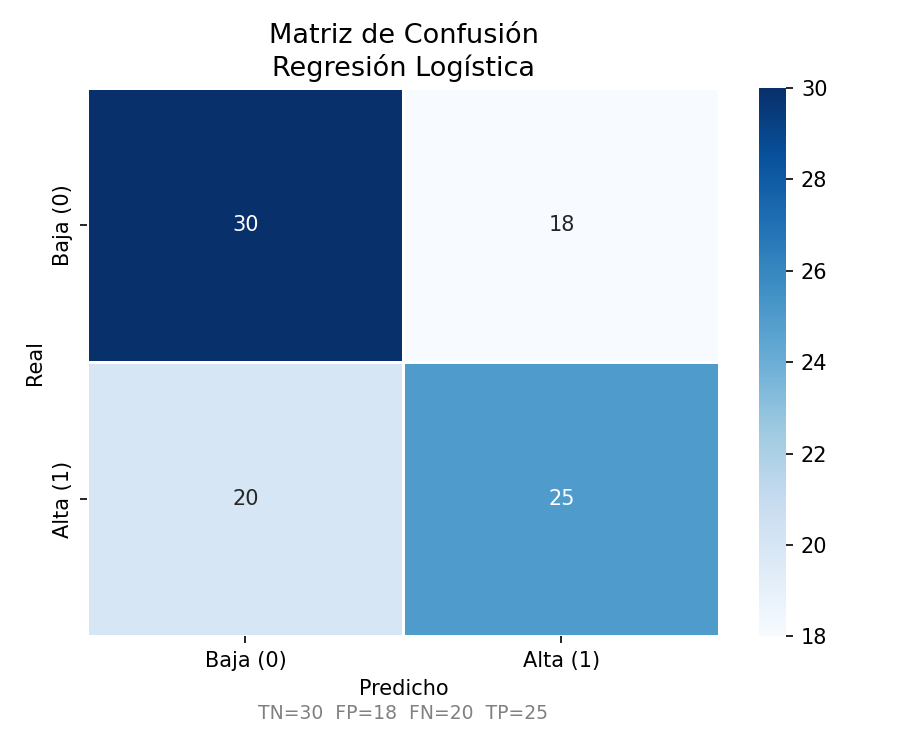
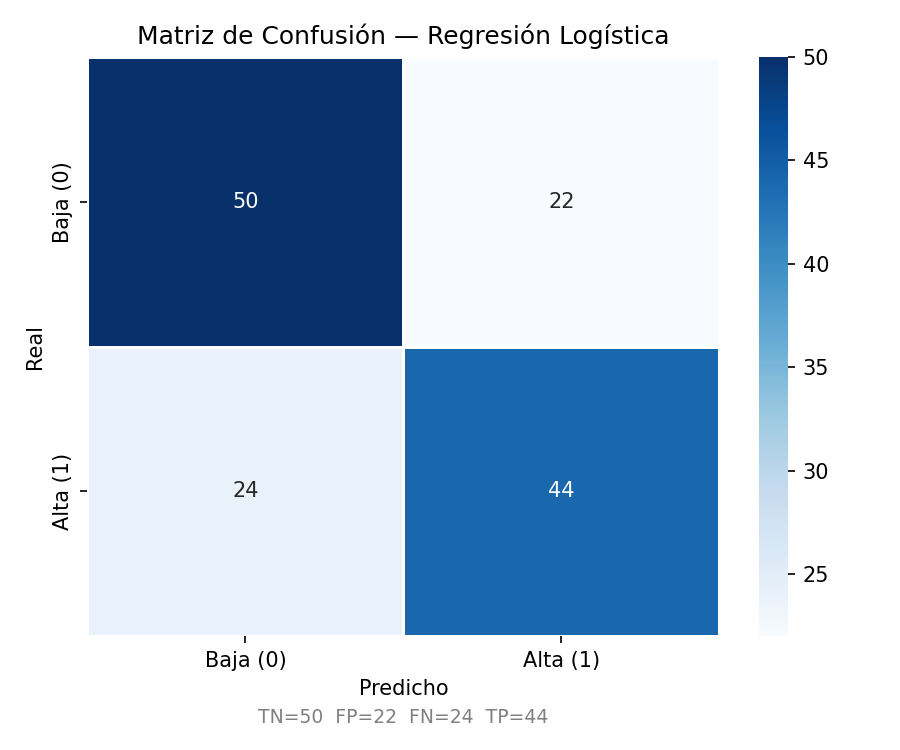
cambios 3

diff --git a/dashboard/app.py b/dashboard/app.py
@@ -122,7 +122,7 @@ with col1:
                  labels={"Total Spent": "Ingresos ($)", "Item": ""})
     fig.update_layout(showlegend=False, coloraxis_showscale=False,
                       margin=dict(l=0, r=0, t=0, b=0), height=320)
-    st.plotly_chart(fig, use_column_width=True)
+    st.plotly_chart(fig, use_container_width=True)
 
 with col2:
     st.subheader("Método de pago")
@@ -133,7 +133,7 @@ with col2:
                   hole=0.45)
     fig2.update_layout(margin=dict(l=0, r=0, t=0, b=0), height=320,
                        legend=dict(orientation="h", y=-0.15))
-    st.plotly_chart(fig2, use_column_width=True)
+    st.plotly_chart(fig2, use_container_width=True)
 
 # ── Fila 2: Ventas en el tiempo + Ubicación ───────────────────────────────────
 col3, col4 = st.columns([3, 2])
@@ -146,7 +146,7 @@ with col3:
                    color_discrete_sequence=["#f59e0b"],
                    labels={"Ingresos": "Ingresos ($)", "Fecha": ""})
     fig3.update_layout(margin=dict(l=0, r=0, t=0, b=0), height=300)
-    st.plotly_chart(fig3, use_column_width=True)
+    st.plotly_chart(fig3, use_container_width=True)
 
 with col4:
     st.subheader("Ventas por ubicación")
@@ -156,7 +156,7 @@ with col4:
                   color_discrete_sequence=["#f59e0b", "#fb923c", "#fcd34d"],
                   labels={"Total Spent": "Ingresos ($)", "Location": ""})
     fig4.update_layout(showlegend=False, margin=dict(l=0, r=0, t=0, b=0), height=300)
-    st.plotly_chart(fig4, use_column_width=True)
+    st.plotly_chart(fig4, use_container_width=True)
 
 # ── Fila 3: Heatmap día × producto ──────────────────────────────────────────
 st.subheader("Volumen de ventas: día de semana × producto")
@@ -167,7 +167,7 @@ fig5 = px.imshow(heatmap_data, color_continuous_scale="Oranges",
                  labels=dict(x="Producto", y="Día", color="Unidades"),
                  aspect="auto")
 fig5.update_layout(margin=dict(l=0, r=0, t=0, b=0), height=280)
-st.plotly_chart(fig5, use_column_width=True)
+st.plotly_chart(fig5, use_container_width=True)
 
 # ── Tabla de datos limpios ────────────────────────────────────────────────────
 with st.expander("Ver datos limpios y validados"):
@@ -175,7 +175,7 @@ with st.expander("Ver datos limpios y validados"):
         df_f[["Transaction ID","Item","Quantity","Price Per Unit",
               "Total Spent","Payment Method","Location","Transaction Date"]]
         .sort_values("Transaction Date", ascending=False),
-        use_column_width=True, height=300
+        use_container_width=True, height=300
     )
     st.download_button(
         "Descargar CSV limpio",
@@ -243,7 +243,7 @@ else:
             "Predicho: Baja (0)": [cm["TN"], cm["FN"]],
             "Predicho: Alta (1)": [cm["FP"], cm["TP"]],
         }, index=["Real: Baja (0)", "Real: Alta (1)"])
-        st.dataframe(df_cm, use_column_width=True)
+        st.dataframe(df_cm, use_container_width=True)
  
         st.markdown(f"""
         - **TP={cm['TP']}** — Ventas altas correctamente identificadas
@@ -266,7 +266,7 @@ else:
             }
             for nombre in modelos_nombres
         }).T
-        st.dataframe(df_comp.style.highlight_max(axis=0, color="#d4edda"), use_column_width=True)
+        st.dataframe(df_comp.style.highlight_max(axis=0, color="#d4edda"), use_container_width=True)
         st.caption("Verde = mejor valor por métrica")
  
     st.divider()
